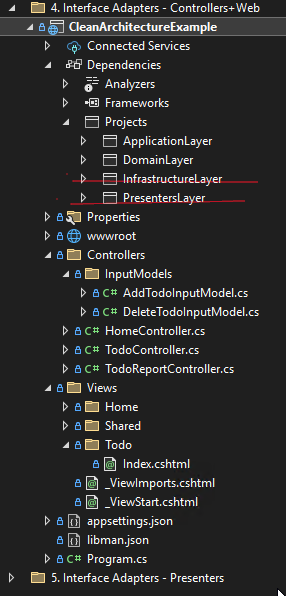
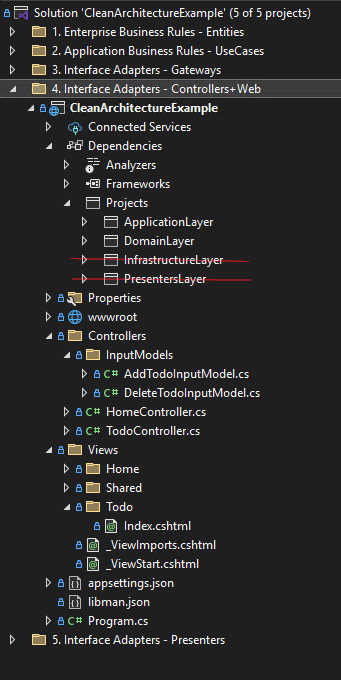
add component diagram

diff --git a/docs/dev/design-principles/architecture-styles/clean-arhitecture/clean-arhitecture.md b/docs/dev/design-principles/architecture-styles/clean-arhitecture/clean-arhitecture.md
@@ -236,13 +236,18 @@ The outermost layer is generally composed of frameworks and tools, such as the D
 
 **UI Update**: The `Presenter` updates the UI with the results of the `Use Case`.
 
-Clean arhitecture control flow UML diagram:
+Clean arhitecture control flow class UML diagram:
 ![Clean arhitecture control flow UML diagram](images/CleanArhitecture_ControlFlow_UML.drawio.png)
 
 * Open arrowheads are using relationships. 
 * Closed arrowheads are implements or inheritance relationships
 
 **Presenters, gateways, and controllers are just plugins to the application.**
+
+Clean arhitecture control flow components UML diagram:
+![Clean arhitecture control flow components UML diagram](images/Clean_Arhitecture_component_diagram.drawio.png)
+
+* The component relationships are indirectional.
 
 Another diagram: 
 ![clean arhitecture data flow](images/clean_arhitecture_control_flow.drawio.png)
@@ -503,16 +508,33 @@ Ideally, the `controllers layer` should be separated into a `distinct library`, 
 The `controllers layer` has a `dependency` only on the inner layers: `domain layer` and `application layer`.
 But main application code has dependency on all layers.
 
-The controller calls the application layer to execute application logic, then calls a presenter to generate a view model, and passes it to the Razor Engine, which converts it to an HTML page. 
+The controller calls the application layer to execute application logic, then calls a presenter to generate a view model, and passes it to the Razor Engine, which converts it to an HTML page or uploads a generated report as a file. 
 
-TodoController:
+`TodoController`:
 ```csharp
 public class TodoController(ITodoService todoService, ITodoIndexPagePresenter todoIndexPagePresenter) : Controller
+namespace CleanArchitectureExample.Controllers;
+
+public class TodoController(ITodoService todoService, 
+    ITodoIndexPagePresenter todoIndexPagePresenter, 
+    ITodoReportPresenter todoReportPresenter) : Controller
 {
+    [HttpGet]
     public async Task<IActionResult> Index()
     {
         return await ShowIndexView();
     }
+
+    [HttpPost]
+    public async Task<IActionResult> Report()
+    {
+        await todoService.PrintTodosQuery(todoReportPresenter);
+
+        var report = todoReportPresenter.GetReport();
+
+        return File(Encoding.Unicode.GetBytes(report), "text/plain", "TodosReport.txt");
+    }
+
 
     [HttpPost]
     public async Task<IActionResult> Add(AddTodoInputModel model)
@@ -539,21 +561,4 @@ public class TodoController(ITodoService todoService, ITodoIndexPagePresenter to
         return View("Index", viewModel);
     }
 }
-``` 
-
-TodoReportController:
-```csharp
-public class TodoReportController(ITodoService todoService, ITodoReportPresenter todoReportPresenter) : Controller
-{
-    [HttpPost]
-    public async Task<IActionResult> Index()
-    {
-        await todoService.PrintTodosQuery(todoReportPresenter);
-
-        var report = todoReportPresenter.GetReport();
-
-        return File(Encoding.Unicode.GetBytes(report), "text/plain", "TodosReport.txt");
-    }
-}
 ```
-The `TodoReportController` calls the use case interactor `ITodoService` with an `ITodoReportPresenter`, which, instead of generating a `view model`, prints a string containing a report. Afterward, the `TodoReportController` uploads a file containing the report to the user.
